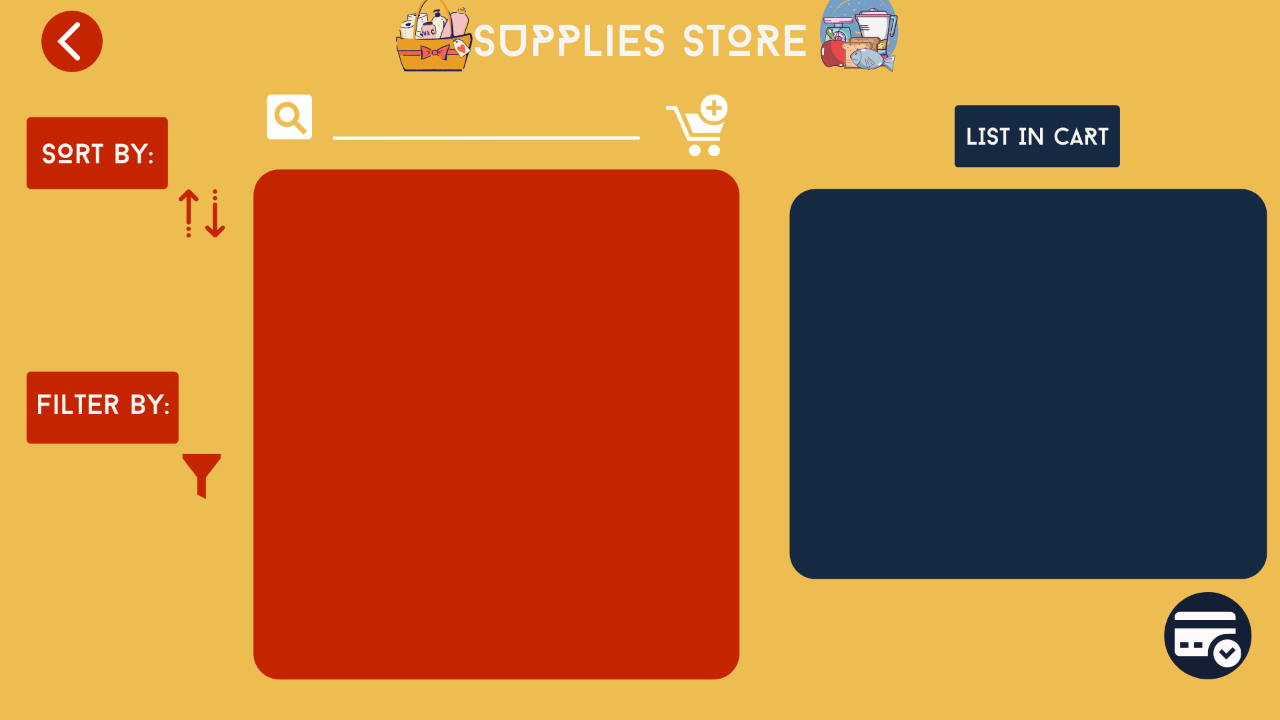
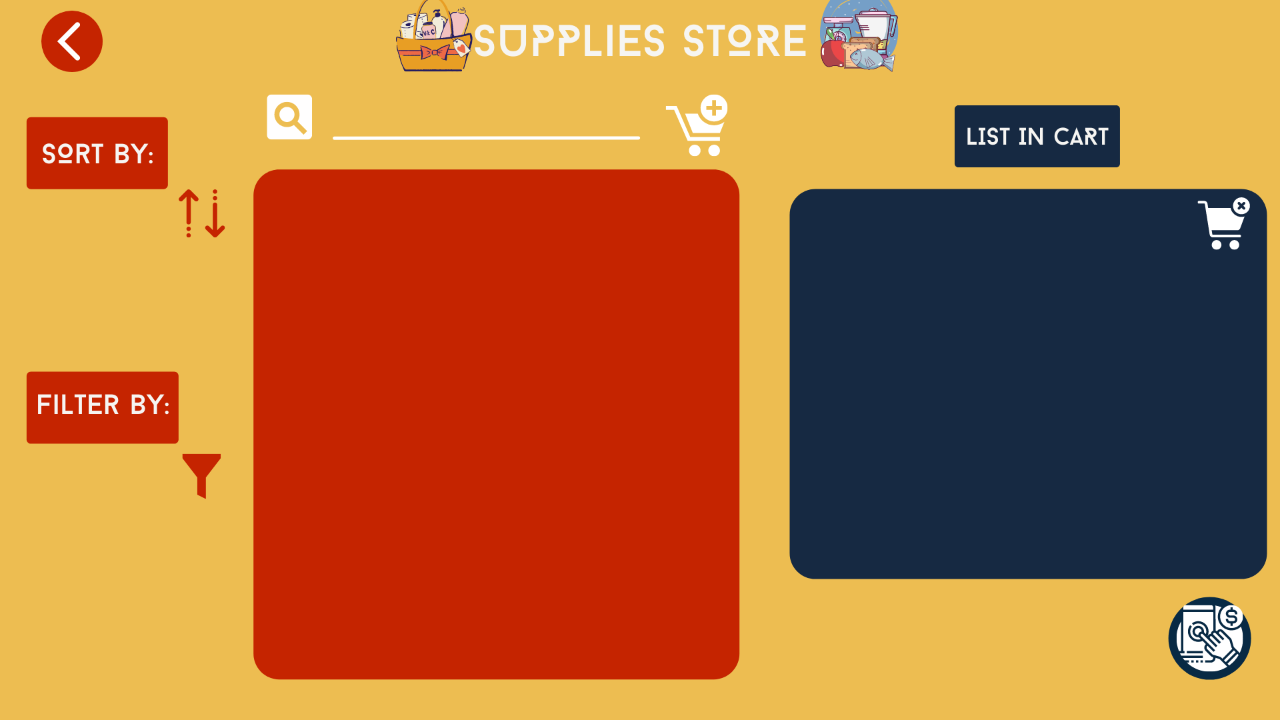
Change Supplies Background + Del cart + Complete Supplies

Changed region(s): [[0.9062, 0.825, 1.0, 0.9472], [0.9375, 0.275, 1.0, 0.3667]]

diff --git a/JavaCovid19App/src/javacovid19app/ManagedUser/ManagedUserSupplies/ManagedUserSupplies.java b/JavaCovid19App/src/javacovid19app/ManagedUser/ManagedUserSupplies/ManagedUserSupplies.java
@@ -69,6 +69,7 @@ public class ManagedUserSupplies extends javax.swing.JFrame {
     private ArrayList<Necessary> temp = new ArrayList<Necessary>(); // danh sách đang hiển thị
     private ArrayList<Necessary> cart = new ArrayList<Necessary>(); // danh sách các nhu yếu phẩm trong giỏ hàng
     private ArrayList<ConsumeHistory> ConHis = new ArrayList<ConsumeHistory>();
+    private int size = 0;
 
     public ManagedUserSupplies() {
         initComponents();
@@ -76,6 +77,7 @@ public class ManagedUserSupplies extends javax.swing.JFrame {
         TextSearch.setBorder(javax.swing.BorderFactory.createEmptyBorder());
         setData();
         setConsumeHistory();
+        size = ConHis.size();
         refreshJTable(this.TabSupplies);
         showData(this.TabSupplies, this.lst);
         EditTableHeightWidth(this.TabSupplies);
@@ -89,6 +91,7 @@ public class ManagedUserSupplies extends javax.swing.JFrame {
         TextSearch.setBorder(javax.swing.BorderFactory.createEmptyBorder());
         setData();
         setConsumeHistory();
+        size = ConHis.size();
         refreshJTable(this.TabSupplies);
         showData(this.TabSupplies, this.lst);
         EditTableHeightWidth(this.TabSupplies);
@@ -345,6 +348,7 @@ public class ManagedUserSupplies extends javax.swing.JFrame {
         jScrollPane1 = new javax.swing.JScrollPane();
         TabCartList = new javax.swing.JTable();
         BtnBuy = new javax.swing.JLabel();
+        BtnDel = new javax.swing.JLabel();
         jLabel1 = new javax.swing.JLabel();
 
         setDefaultCloseOperation(javax.swing.WindowConstants.EXIT_ON_CLOSE);
@@ -441,16 +445,23 @@ public class ManagedUserSupplies extends javax.swing.JFrame {
             TabCartList.getColumnModel().getColumn(0).setHeaderValue("No");
         }
 
-        getContentPane().add(jScrollPane1, new org.netbeans.lib.awtextra.AbsoluteConstraints(802, 197, -1, 370));
+        getContentPane().add(jScrollPane1, new org.netbeans.lib.awtextra.AbsoluteConstraints(802, 257, -1, 310));
 
         BtnBuy.addMouseListener(new java.awt.event.MouseAdapter() {
             public void mouseClicked(java.awt.event.MouseEvent evt) {
                 BtnBuyMouseClicked(evt);
             }
         });
-        getContentPane().add(BtnBuy, new org.netbeans.lib.awtextra.AbsoluteConstraints(1165, 590, 90, 90));
+        getContentPane().add(BtnBuy, new org.netbeans.lib.awtextra.AbsoluteConstraints(1165, 600, 90, 80));
 
-        jLabel1.setIcon(new javax.swing.ImageIcon("C:\\Users\\DELL\\Documents\\GitHub\\JavaCovi19App\\JavaCovid19App\\src\\javacovid19app\\ManagedUser\\ManagedUserSupplies\\SuppliesManagedUserBackground.png")); // NOI18N
+        BtnDel.addMouseListener(new java.awt.event.MouseAdapter() {
+            public void mouseClicked(java.awt.event.MouseEvent evt) {
+                BtnDelMouseClicked(evt);
+            }
+        });
+        getContentPane().add(BtnDel, new org.netbeans.lib.awtextra.AbsoluteConstraints(1195, 194, 60, 60));
+
+        jLabel1.setIcon(new javax.swing.ImageIcon(getClass().getResource("/javacovid19app/ManagedUser/ManagedUserSupplies/SuppliesManagedUserBackground.png"))); // NOI18N
         getContentPane().add(jLabel1, new org.netbeans.lib.awtextra.AbsoluteConstraints(0, 0, -1, -1));
 
         pack();
@@ -609,6 +620,19 @@ public class ManagedUserSupplies extends javax.swing.JFrame {
         }
     }//GEN-LAST:event_BtnBuyMouseClicked
 
+    private void BtnDelMouseClicked(java.awt.event.MouseEvent evt) {//GEN-FIRST:event_BtnDelMouseClicked
+        // TODO add your handling code here:
+        int index = TabCartList.getSelectedRow();
+        TableModel model = TabCartList.getModel();
+        
+        cart.remove(index);
+        ConHis.remove(size + index);
+        
+        refreshJTable(this.TabCartList);
+        showData(this.TabCartList, cart);
+        EditTableHeightWidth(this.TabCartList);
+    }//GEN-LAST:event_BtnDelMouseClicked
+
     /**
      * @param args the command line arguments
      */
@@ -648,6 +672,7 @@ public class ManagedUserSupplies extends javax.swing.JFrame {
     private javax.swing.JLabel BtnAddToCart;
     private javax.swing.JLabel BtnBack;
     private javax.swing.JLabel BtnBuy;
+    private javax.swing.JLabel BtnDel;
     private javax.swing.JLabel BtnFilter;
     private javax.swing.JLabel BtnSearch;
     private javax.swing.JLabel BtnSort;
